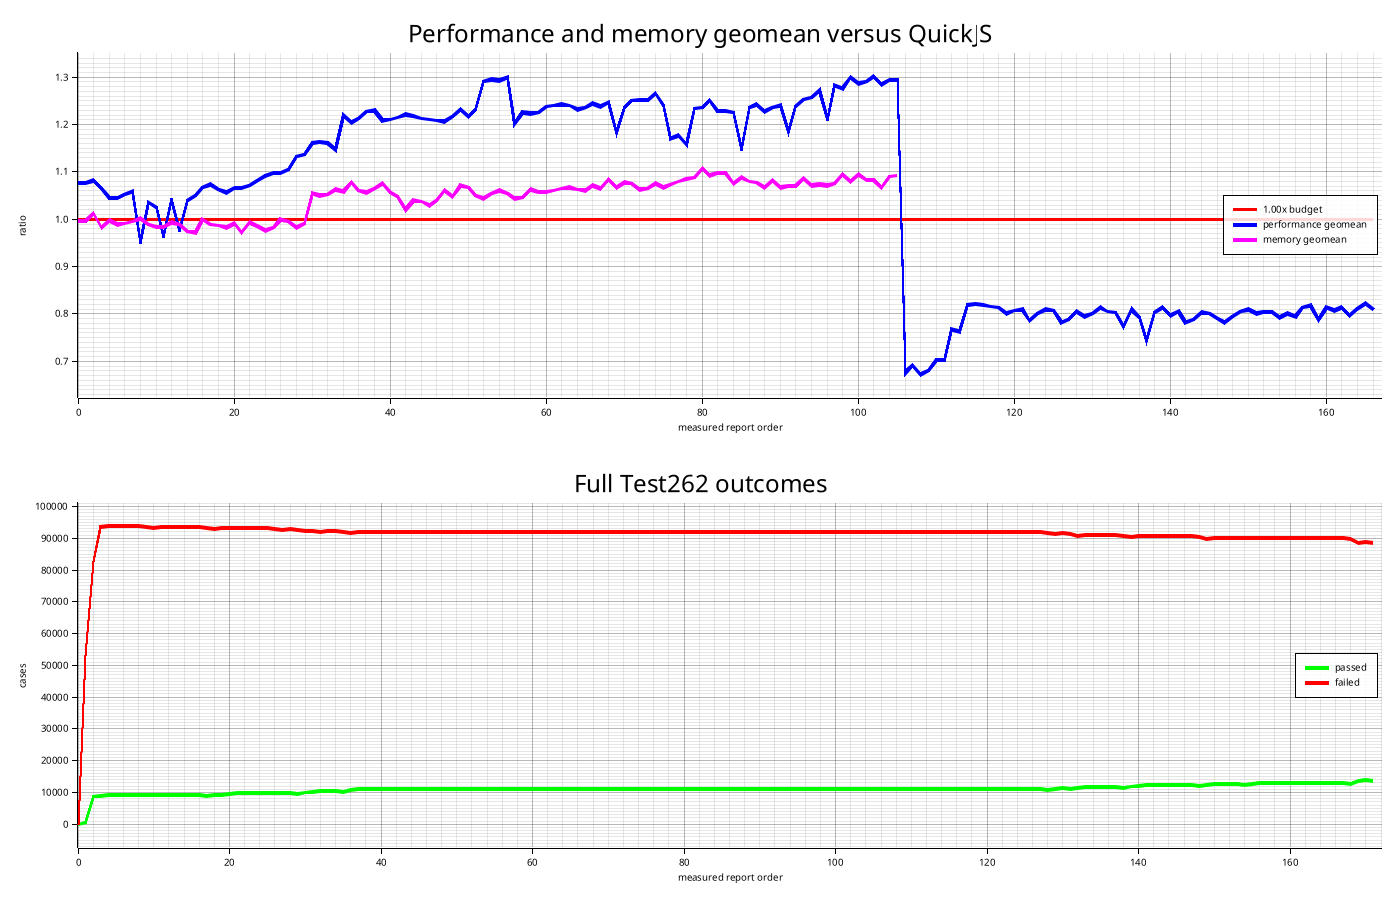
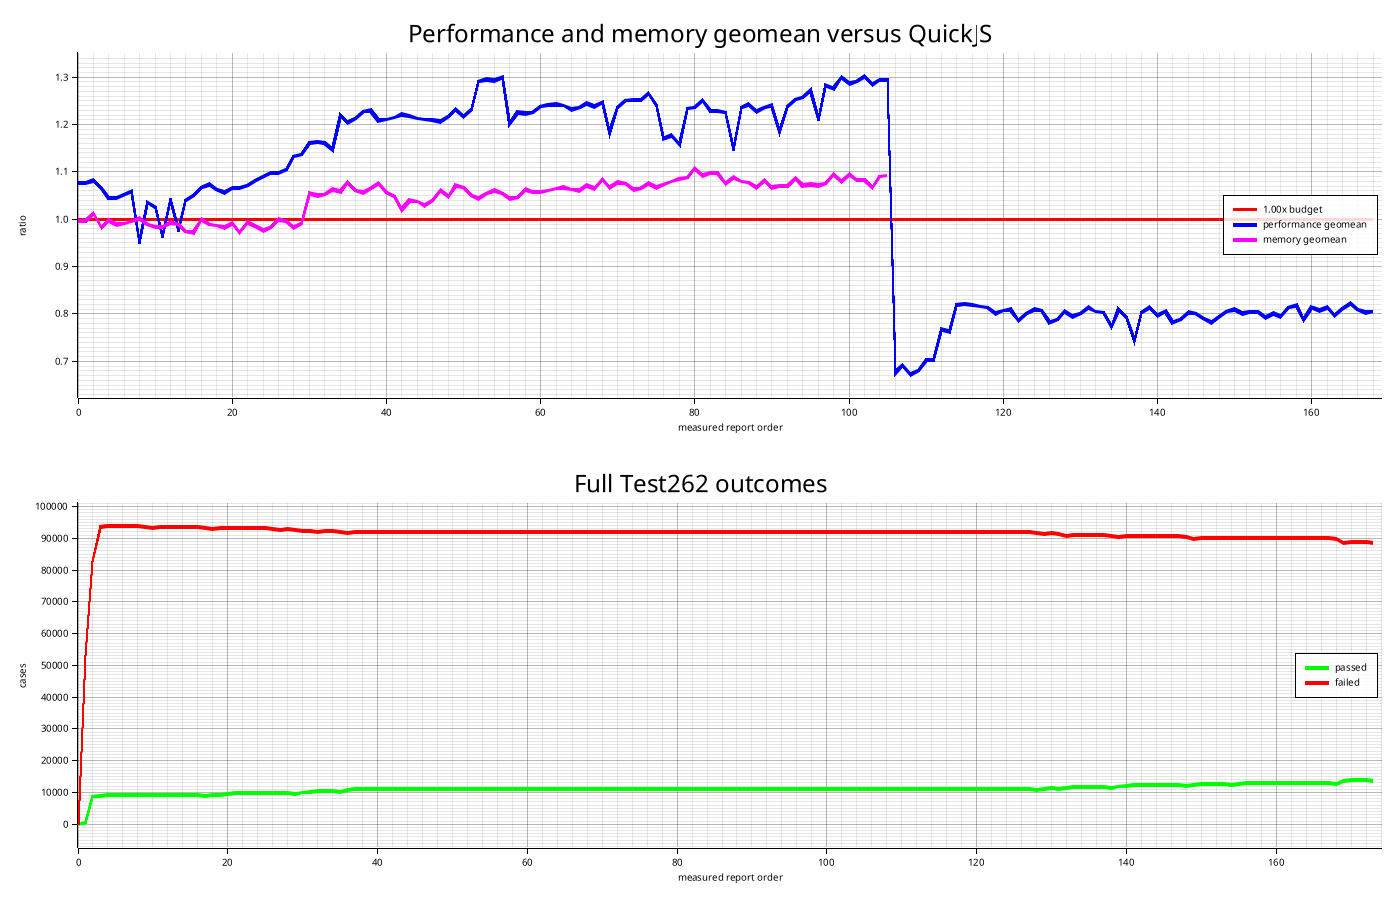
Bump version and refresh validation report

diff --git a/reports/benchmark-rollup.md b/reports/benchmark-rollup.md
@@ -16,9 +16,9 @@ Artifacts:
 
 Latest report:
 
-- `rsqjs-test-report-20260707T054855Z.md`
-- Task: rsqjs-test-report-20260707T054855Z.md
-- Performance: 0.81x (40/63 >1.00x)
+- `rsqjs-test-report-20260707T055950Z.md`
+- Task: rsqjs-test-report-20260707T055950Z.md
+- Performance: 0.81x (39/63 >1.00x)
 - Memory: - (0/63 >1.00x)
 - Full Test262: 13781 passed / 88797 failed (13.43%)
 
@@ -249,4 +249,6 @@ Latest report:
 | `20260707T051922Z` `10a9049` Quicken array index read-modify-write paths | 0.80x (40/63 >1.00x) | - (0/63 >1.00x) | 12723 passed / 89855 failed (12.40%) |
 | `20260707T052745Z` `02fa01f` Support Test262 function prototype harness helpers | 0.81x (38/63 >1.00x) | - (0/63 >1.00x) | 13781 passed / 88797 failed (13.43%) |
 | `20260707T053505Z` `54a8f3b` Borrow array scan values in fast paths | 0.82x (41/63 >1.00x) | - (0/63 >1.00x) | 13781 passed / 88797 failed (13.43%) |
-| `20260707T054855Z` rsqjs-test-report-20260707T054855Z.md | 0.81x (40/63 >1.00x) | - (0/63 >1.00x) | 13781 passed / 88797 failed (13.43%) |
+| `20260707T054855Z` `7007eb6` Optimize packed array materialization | 0.81x (40/63 >1.00x) | - (0/63 >1.00x) | 13781 passed / 88797 failed (13.43%) |
+| `20260707T055120Z` rsqjs-test-report-20260707T055120Z.md | 0.80x (40/63 >1.00x) | - (0/63 >1.00x) | 13781 passed / 88797 failed (13.43%) |
+| `20260707T055950Z` rsqjs-test-report-20260707T055950Z.md | 0.81x (39/63 >1.00x) | - (0/63 >1.00x) | 13781 passed / 88797 failed (13.43%) |